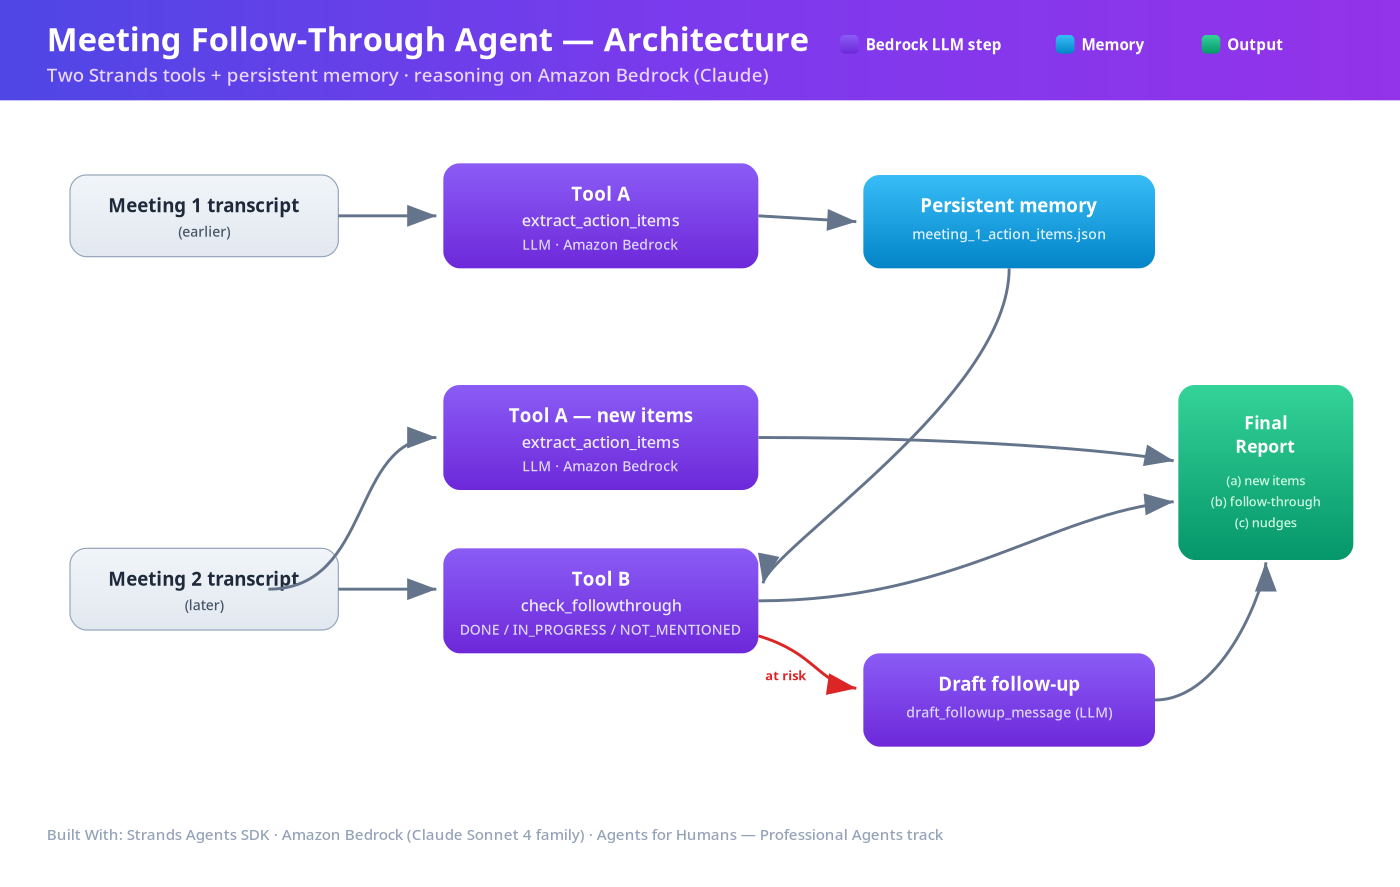
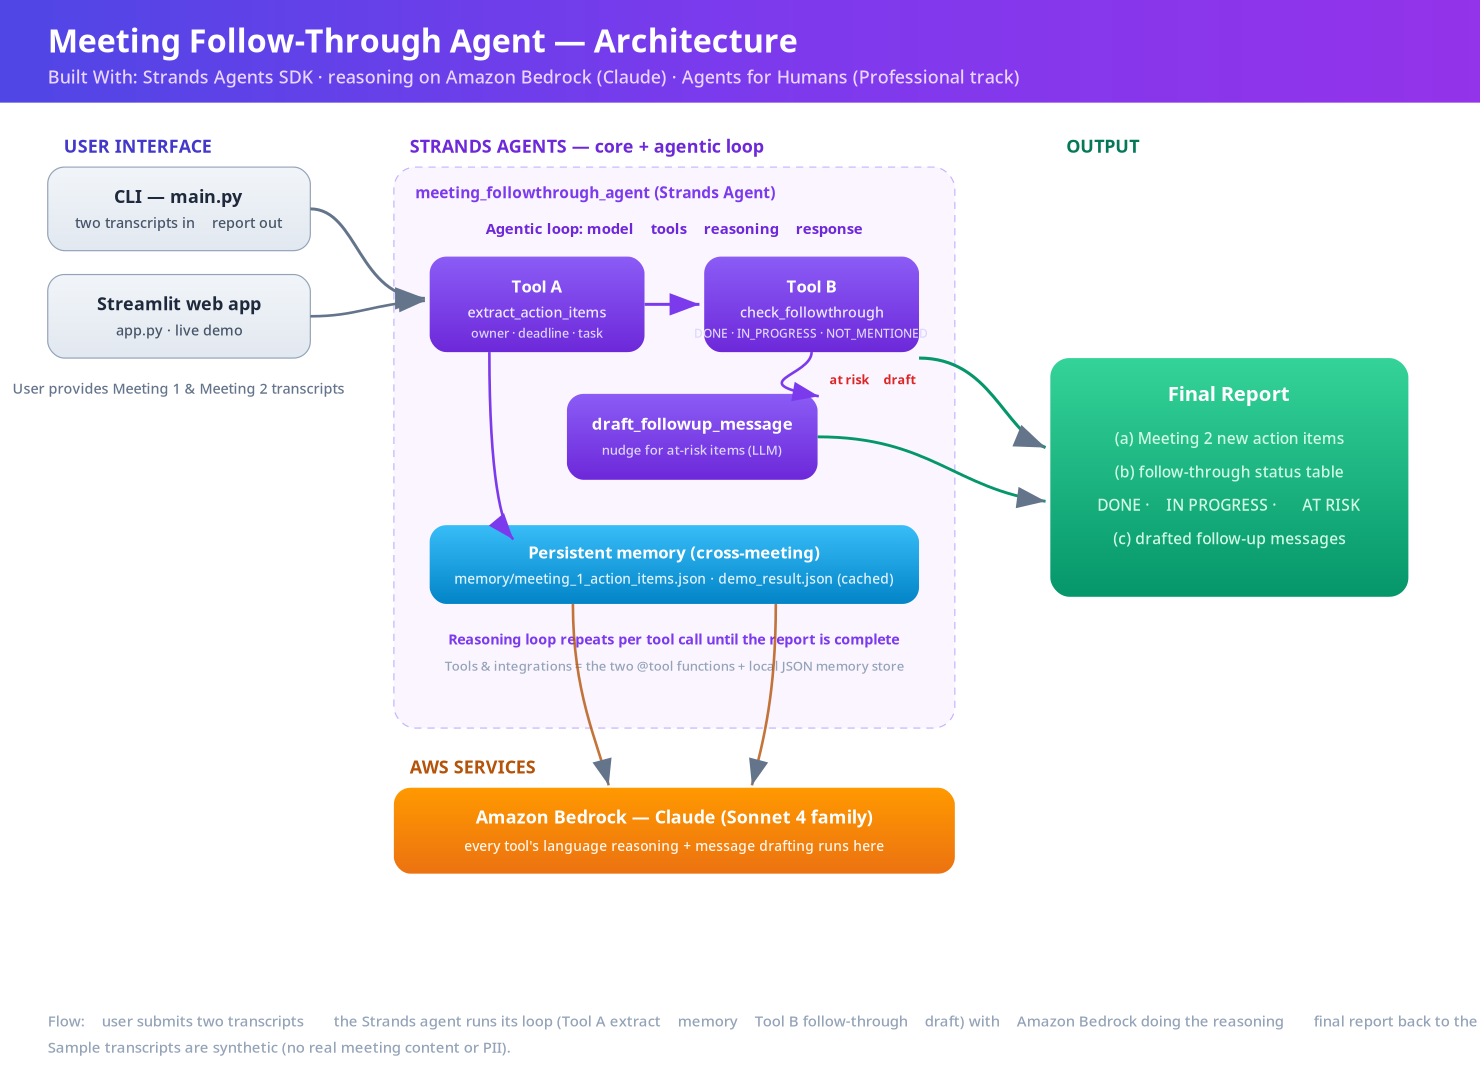
Align with hackathon FAQ: architecture diagram shows all 5 required elements; document Builder ID (email), synthetic data, one-track, newly-created

diff --git a/SUBMISSION.md b/SUBMISSION.md
@@ -22,14 +22,22 @@ Use this to make sure nothing required is missing before submitting on Devpost.
         (`gh repo view` reports `licenseInfo: MIT License`). Copyright line now
         reads "Makendran".
 - [x] **README** — present, with cold-start setup a stranger can follow.
-- [x] **Architecture diagram** — `ARCHITECTURE.md` (Mermaid).
+- [x] **Architecture diagram** — `ARCHITECTURE.md` (Mermaid) + a rendered
+      `docs/architecture.png` for upload. Per the FAQ it labels all five required
+      elements: ① user interface (CLI + Streamlit), ② Strands Agents core +
+      agentic loop, ③ tools & integrations, ④ AWS services (Bedrock), ⑤ output.
 - [ ] **Demo video (≤ 5 minutes)** — record using `DEMO_SCRIPT.md`. Must:
       - [ ] show the project working end-to-end (the follow-through table + nudge)
       - [ ] cover (1) the problem, (2) who it's for, (3) why it matters
       - [ ] be uploaded publicly to YouTube or Vimeo; put the link on Devpost
       - [ ] say "Strands Agents SDK" out loud / on a slide
-- [ ] **AWS Builder ID** — create one at the AWS Builder ID portal and add it to
-      the Devpost submission form.
+- [ ] **AWS Builder ID** — create one at profile.aws.amazon.com; on the Devpost
+      form **enter the email address you used to create it** (per the FAQ).
+- [x] **One track only** — submitted to Professional Agents only.
+- [x] **Synthetic data** — sample transcripts are synthetic (no real content/PII),
+      per the FAQ recommendation.
+- [x] **Newly created in the submission period** — built fresh with standard
+      tools + an AI assistant (allowed); not a repackaged prior project.
 - [x] *(Optional, scores higher)* **Live demo link** —
       https://meeting-followthrough-agent.streamlit.app/ (Streamlit Community
       Cloud, **keyless Demo mode** — no Secrets needed). Add AWS Secrets only if

diff --git a/ARCHITECTURE.md b/ARCHITECTURE.md
@@ -6,6 +6,24 @@
 "Architecture diagram" field. Source: `docs/architecture.svg` / the Mermaid
 below.)*
 
+## The five elements (per the hackathon FAQ)
+
+The diagram labels each element the judges' FAQ asks for:
+
+1. **User input / interface** — a **CLI** (`main.py`) and a **Streamlit web app**
+   (`app.py`); the user provides a Meeting 1 and a Meeting 2 transcript.
+2. **Strands Agents (core + agentic loop)** — the `meeting_followthrough_agent`
+   Strands agent runs the loop *model → tools → reasoning → response*, calling
+   its two `@tool` functions and the drafting step until the report is complete.
+3. **Tools & integrations** — the two custom tools (`extract_action_items`,
+   `check_followthrough`) plus a local **JSON memory store** that persists
+   Meeting 1's items across meetings.
+4. **AWS services** — **Amazon Bedrock** (Claude, Sonnet 4 family) provides all
+   the language reasoning inside the tools and the follow-up drafting.
+5. **Output** — a final report: (a) Meeting 2's new action items, (b) the
+   follow-through status table (DONE / IN_PROGRESS / NOT_MENTIONED), and
+   (c) drafted follow-up messages for at-risk items.
+
 The Meeting Follow-Through Agent is built with the **Strands Agents SDK** and
 uses a **two-tool design** plus a small local **persistent-memory** layer. That
 combination is what makes it more than a plain meeting summarizer: it doesn't

diff --git a/DEVPOST_SUBMISSION.md b/DEVPOST_SUBMISSION.md
@@ -119,8 +119,11 @@ in the repo. (Source: `docs/architecture.svg`; a Mermaid version is in
 
 ## AWS Builder ID
 
+Per the FAQ, **enter the email address you used to create your AWS Builder ID**
+(create/manage one at https://profile.aws.amazon.com or via builder.aws.com).
+
 ```
-<your AWS Builder ID>
+<the email address for your AWS Builder ID>
 ```
 
 ---
@@ -148,3 +151,21 @@ switch to "Live agent" mode, and click Run. Or clone the repo and run
 ```
 <paste your builder.aws.com article URL here after publishing BUILDER_ARTICLE.md>
 ```
+
+---
+
+## FAQ-compliance notes (for your own reference — not form fields)
+
+- **One track only:** submitted to **Professional Agents** only (the FAQ says a
+  project may fall into just one track).
+- **Newly created in the submission period:** built fresh during the Aug 10 –
+  Sep 14, 2026 window using standard tools (Strands Agents SDK, AWS SDKs) and an
+  AI coding assistant — which the rules explicitly allow. No pre-existing project
+  was repackaged.
+- **Synthetic data:** both sample transcripts are synthetic — no real meeting
+  content, no PII — matching the FAQ's recommendation to use synthetic/anonymized
+  data.
+- **Public repo + license:** the repo is public with an MIT `LICENSE` detected in
+  the About section.
+- **No secrets:** credentials come from environment variables / Streamlit Secrets
+  only; the public demo runs keyless.
